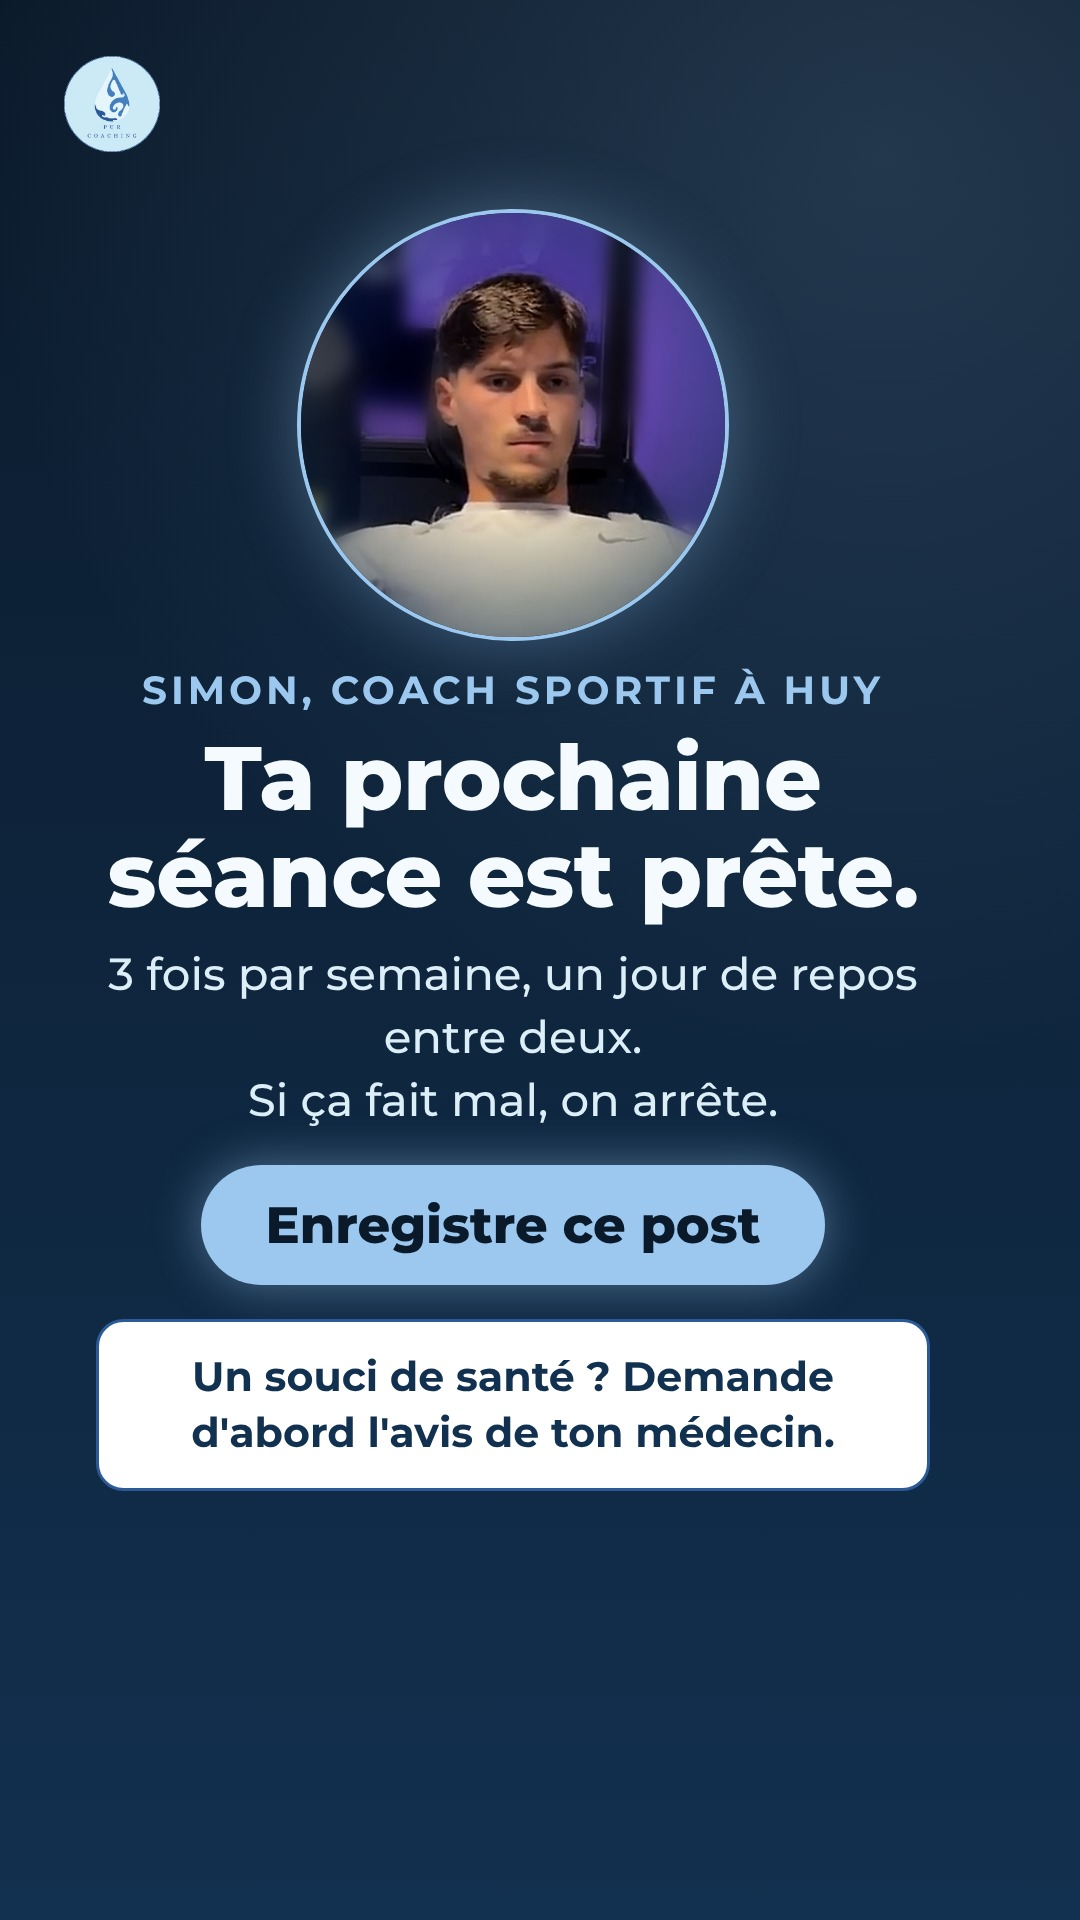
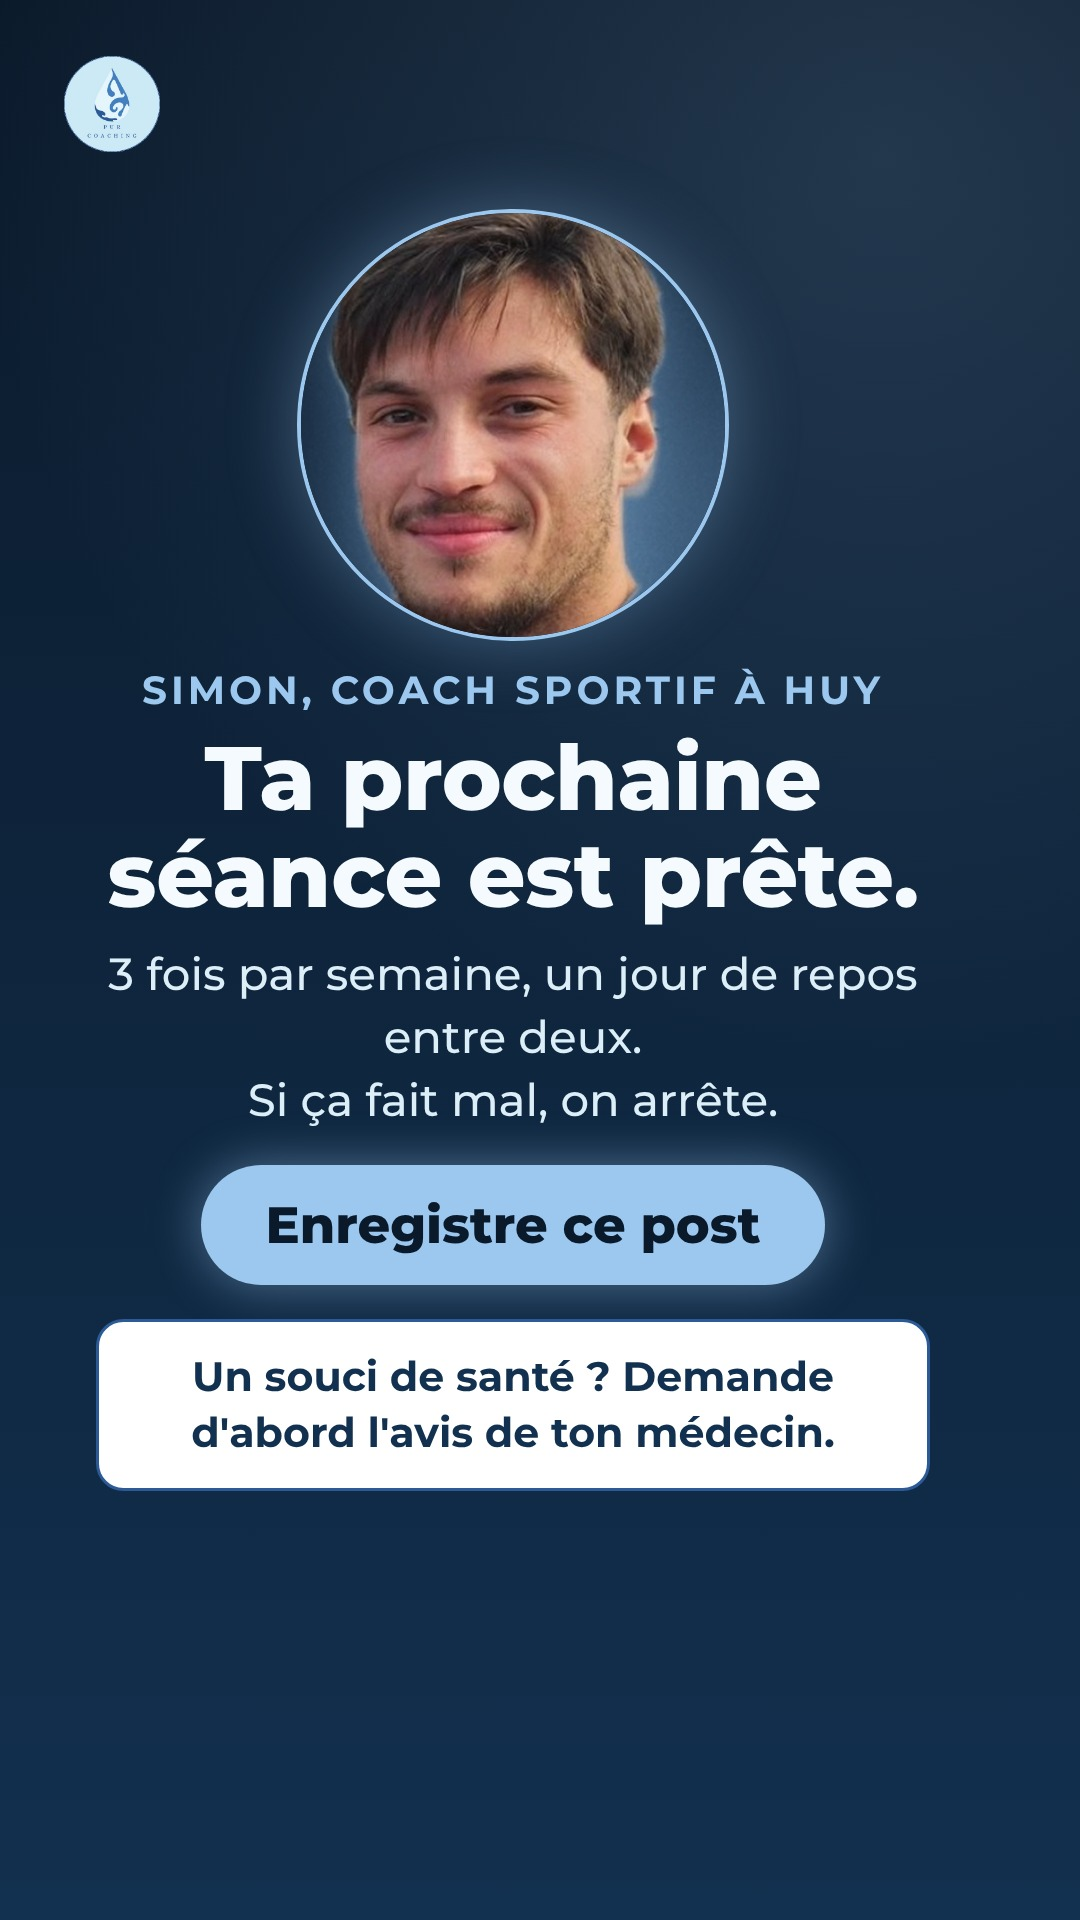
Carrousel « Ta séance de 20 minutes » : version avec 3 niveaux par exercice
Claude-Session: https://claude.ai/code/session_01FAgA2MBSiTZCPV8ixSg8Sb

Changed region(s): [[0.275, 0.0938, 0.6722, 0.3438]]

diff --git a/equipe/pole-marketing/medias/semaine-2026-11-23/LISEZMOI.md b/equipe/pole-marketing/medias/semaine-2026-11-23/LISEZMOI.md
@@ -7,3 +7,8 @@ Rappel vie privée : seules des photos de Simon ou des visuels de marque
 vont ici, jamais la photo d'un client.
 
 - `IG20-1.jpg` à `IG20-9.jpg` (1080 x 1350) et `TT20-1.jpg` à `TT20-9.jpg` (1080 x 1920) : carrousel « Ta séance de 20 minutes, prête à faire », pensé comme la suite de l'épisode 3 de la série « Dans ta tête / En vrai » (épisode finalement non publié ; le carrousel se lit seul). Images faites par code (pas d'IA) : fond bleu nuit, une seule couleur vive (bleu clair), dessins des 4 exercices, vraie photo de Simon en couverture et en dernière page. La couverture montre un agenda plein avec une seule case allumée, « 18:00-18:20 · Séance ». Séance validée par coach-securite (9/10) ; images et légendes validées par coach-securite (9/10 sur les deux réseaux) ; jury contenu 8,0/10 ; contrôle qualité passé le 16/11 (sa correction, la pause d'une minute entre les deux tours, est dans les légendes). Appel unique : « Enregistre ce post ». Prévu mardi 24 novembre, 18:00 sur Instagram et TikTok ; en brouillon depuis le 16/11, en attente de la réponse de simo (il a demandé de reprendre la série de vidéos de zéro, l'épisode 3 n'est pas sorti).
+
+
+## Version du 17/11 (celle qui est programmée)
+
+Les 18 images ont été remplacées le 17/11 : chaque exercice (pages 4 à 7) montre 3 niveaux (plus facile, base, plus dur) dessinés en 3D, à la demande de simo. Photo de Simon : celle qu'il a choisie le 17/11. Validé par coach-securite (9/10), le jury (8,1/10), le contrôle qualité, puis simo (« Oui, programme », 17/11).
